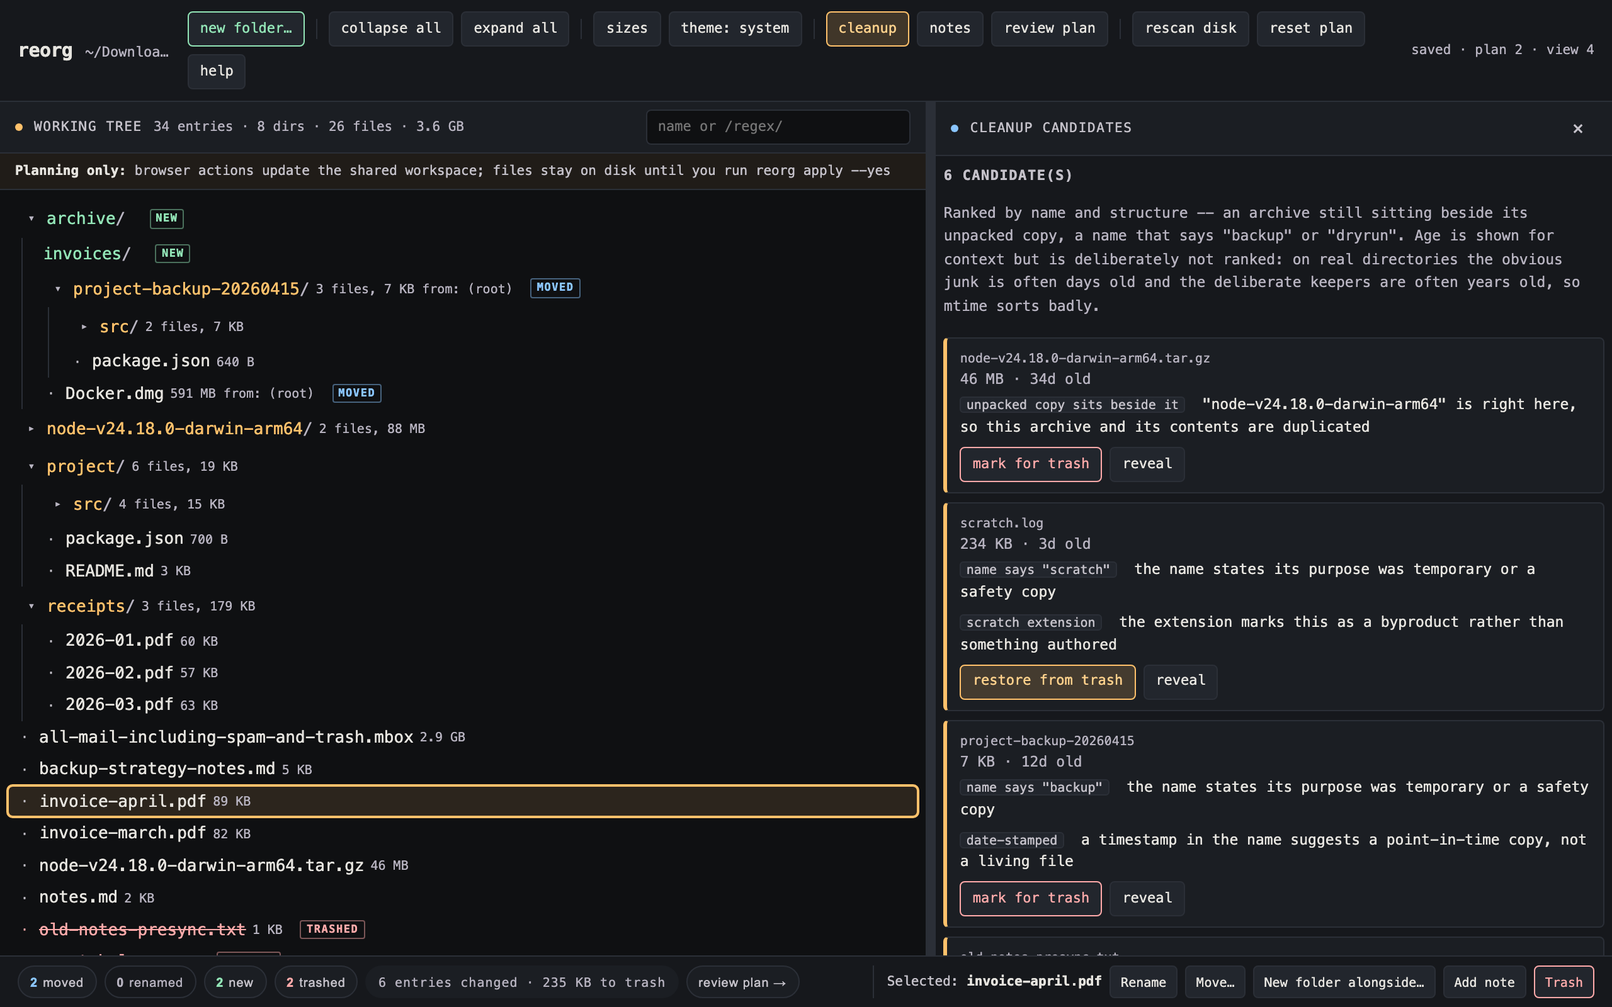
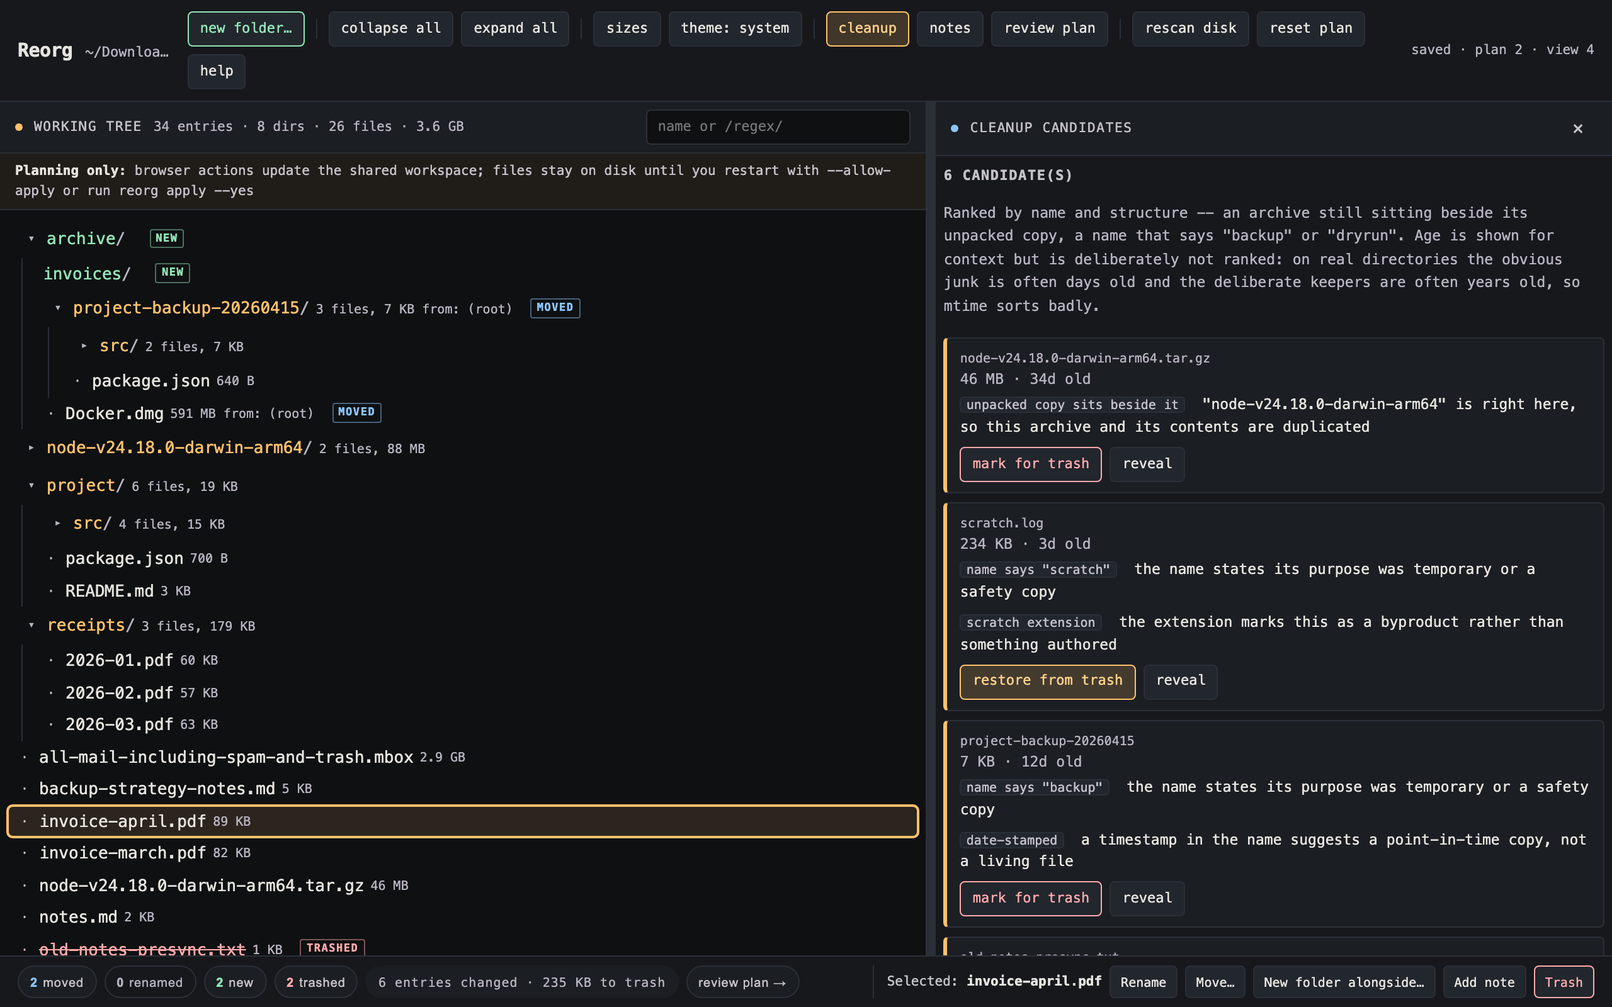
feat(skill): enable AI-assisted Reorg collaboration
- Guide agents through revisioned shared state, semantic mutations, and explicit apply boundaries
- Support Codex and Claude Code discovery with a zero-install npx fallback
- Package Claude marketplace distribution and document global installation
- Present Reorg as a complete manual planner with optional live agent collaboration

Changed region(s): [[0.0, 0.1875, 0.5938, 0.9688], [0.4688, 0.1562, 0.5625, 0.1875]]

diff --git a/web/app.js b/web/app.js
@@ -1236,7 +1236,7 @@ function renderScopeBanner() {
     detail = 'browser actions update the shared workspace; files move only after Review, Apply, and confirmation';
   } else {
     lead.textContent = 'Planning only: ';
-    detail = 'browser actions update the shared workspace; files stay on disk until you run reorg apply --yes';
+    detail = 'browser actions update the shared workspace; files stay on disk until you restart with --allow-apply or run reorg apply --yes';
   }
   banner.append(lead, document.createTextNode(detail));
   banner.classList.toggle('bad', !!store.scan.truncated);
@@ -1261,7 +1261,7 @@ async function boot() {
       el(
         'p',
         'problem',
-        `Could not reach the reorg server: ${e.message}\n\nOpen the URL printed by the reorg command -- it carries the access token this page needs.`
+        `Could not reach the Reorg server: ${e.message}\n\nOpen the URL printed by the reorg command -- it carries the access token this page needs.`
       )
     );
     return;
@@ -1269,7 +1269,7 @@ async function boot() {
 
   store.init(data);
   $('#rootLabel').textContent = data.scan.root;
-  document.title = `reorg \u00b7 ${data.scan.root.split('/').filter(Boolean).pop() || '/'}`;
+  document.title = `Reorg \u00b7 ${data.scan.root.split('/').filter(Boolean).pop() || '/'}`;
 
   const c = data.scan.counts;
   $('#treeHint').textContent =

diff --git a/src/summarize.js b/src/summarize.js
@@ -271,9 +271,9 @@ export async function emitPrompts({ root, dataDir = null, paths, force = false }
   for (const e of entries) stub[e.path] = '';
 
   const doc = [
-    '# Summarize these files for reorg',
+    '# Summarize these files for Reorg',
     '',
-    'A one-line summary per file, so the reorg planner can show what each file',
+    'A one-line summary per file, so the Reorg planner can show what each file',
     'actually is while its owner decides where it belongs.',
     '',
     '## What to do',
@@ -281,7 +281,7 @@ export async function emitPrompts({ root, dataDir = null, paths, force = false }
     `1. Read each path listed below (they are relative to \`${root}\`).`,
     `2. Fill in every empty string in \`${OUT_FILE}\` (same directory as this file).`,
     '3. Keep the keys exactly as they are -- they are node ids the planner matches on.',
-    '4. Reload the reorg page; summaries appear inline in the tree.',
+    '4. Reload the Reorg page; summaries appear inline in the tree.',
     '',
     '## Rules for each summary',
     '',

diff --git a/web/index.html b/web/index.html
@@ -3,7 +3,7 @@
 <head>
 <meta charset="utf-8">
 <meta name="viewport" content="width=device-width, initial-scale=1">
-<title>reorg</title>
+<title>Reorg</title>
 <link rel="icon" href="/favicon.svg" type="image/svg+xml">
 <link rel="stylesheet" href="/app.css">
 </head>
@@ -12,10 +12,10 @@
 <a class="skip-link" href="#tree">Skip to directory tree</a>
 
 <header class="topbar">
-  <h1 class="brand"><span>reorg</span><span class="brand-sub" id="rootLabel"></span></h1>
+  <h1 class="brand"><span>Reorg</span><span class="brand-sub" id="rootLabel"></span></h1>
   <nav class="toolbar" id="toolbar" aria-label="Planner actions"></nav>
   <div class="spacer"></div>
-  <div class="savestate" id="saveState" role="status" aria-live="polite" aria-atomic="true" title="Your plan and view autosave to the shared reorg workspace">&hellip;</div>
+  <div class="savestate" id="saveState" role="status" aria-live="polite" aria-atomic="true" title="Your plan and view autosave to the shared Reorg workspace">&hellip;</div>
 </header>
 
 <main class="stage" id="stage">

diff --git a/src/apply.js b/src/apply.js
@@ -146,7 +146,7 @@ function shellQuote(s) {
 export function buildUndoScript(ops, stamp, opts = {}) {
   const lines = [
     '#!/bin/bash',
-    '# Undo script generated by reorg. Run from the directory that was reorganized.',
+    '# Undo script generated by Reorg; run from the directory that was reorganized',
     '# Each step is guarded, so this is safe to run after a partial apply: steps',
     '# whose source is missing are skipped rather than failing the whole script.',
     `# Generated for apply run ${stamp}.`,
@@ -156,7 +156,7 @@ export function buildUndoScript(ops, stamp, opts = {}) {
     // The script lives at <root>/.reorg/undo-<stamp>.sh, so one level up from its
     // own directory is the reorganized root. Paths below are relative to that.
     'cd "$(dirname "$0")/.." || exit 1',
-    `printf 'Undoing reorg run %s in %s\\n' ${shellQuote(stamp)} "$PWD"`,
+    `printf 'Undoing Reorg run %s in %s\\n' ${shellQuote(stamp)} "$PWD"`,
     '',
     'moved=0; skipped=0',
     '',

diff --git a/test/static.test.js b/test/static.test.js
@@ -40,7 +40,7 @@ test('--help includes the package version in its header', () => {
   assert.equal(result.status, 0, result.stderr);
   assert.equal(
     result.stdout.split(/\r?\n/, 1)[0],
-    `reorg ${PACKAGE_VERSION} -- plan a directory reorganization, then apply it safely.`
+    `reorg ${PACKAGE_VERSION} -- plan alone or collaborate with an AI agent, then apply safely.`
   );
   assert.match(result.stdout, /--allow-apply/);
 });

diff --git a/web/lib/api.js b/web/lib/api.js
@@ -27,7 +27,7 @@ async function request(method, path, body) {
       body: body === undefined ? undefined : JSON.stringify(body),
     });
   } catch (e) {
-    throw new Error(`the reorg server is not responding (${e.message}). Is it still running?`);
+    throw new Error(`the Reorg server is not responding (${e.message}). Is it still running?`);
   }
 
   const text = await res.text();

diff --git a/src/state.js b/src/state.js
@@ -131,7 +131,7 @@ export function emptyView(legacyUi = {}) {
 function selfIgnore(dir) {
   const f = join(dir, '.gitignore');
   if (existsSync(f)) return;
-  writeFileSync(f, '# reorg working state -- not source. Ignored wholesale.\n*\n');
+  writeFileSync(f, '# Reorg working state -- not source; ignored wholesale\n*\n');
 }
 
 export function ensureStateDir(root, dataDir = null) {

diff --git a/README.md b/README.md
@@ -1,12 +1,14 @@
-# reorg
+# Reorg
 
-Reorganize a messy directory by selecting or dragging entries into shape, then apply the plan with one command. Before moving anything, reorg writes an undo script.
+Reorganize a directory yourself in the browser, or collaborate with an AI agent in real time on the same plan. Reorg validates every operation and leaves the filesystem untouched until you explicitly apply; when an agent joins, the scanned tree, proposed changes, and UI state become shared context that you can see and steer.
 
 ```
 npx reorg-cli@latest ~/Downloads
 ```
 
-That scans the directory, opens a planner in your browser, and prints a URL. Select an entry to see its labeled actions, create folders at any level, move with or without drag and drop, rename things, and mark junk for trash. No planned rename, move, folder, or trash action touches the entries on disk until you say so.
+That scans the directory, opens the planner in your browser, and prints a URL. You can select an entry to see its labeled actions, create folders at any level, move with or without drag and drop, rename things, and mark junk for trash. The browser and CLI are complete on their own; no AI agent is required. With the [Agent Skill](#collaborate-with-an-ai-agent) installed, you can instead ask your agent to propose or make those changes while you watch, review, and redirect the same plan. No planned rename, move, folder, or trash action touches the entries on disk until you say so.
+
+> Help me organize `~/Downloads` with Reorg. Start by showing me what you would change, then keep the browser in sync as we work through it together.
 
 ![The planner mid-edit: a new folder, two moves, two entries marked for trash](docs/planner.png)
 
@@ -18,7 +20,9 @@ No runtime dependencies, no build step, no config file. One Node script and a pa
 
 ## Why
 
-Cleaning up a directory has two distinct parts: deciding what its shape should be, and safely realizing that plan on disk. reorg keeps them separate. You arrange the whole tree in a planner where every change is reversible with a keystroke. When the shape looks right, reorg compiles the plan into ordered filesystem operations for applying and undoing the changes, with collisions caught before anything moves.
+Cleaning up a directory has two distinct parts: deciding what its shape should be, and safely realizing that plan on disk. An AI agent can accelerate the first part only when you and the agent can see the same state, build on each other's decisions, and catch stale or conflicting intent. Reorg provides that shared, revisioned planning surface, then compiles the agreed plan into ordered filesystem operations for applying and undoing the changes, with collisions caught before anything moves.
+
+This makes the agent a collaborator rather than a black-box file mover. It can understand contents, propose structure, update the plan, and focus the browser on what it is discussing; Reorg remains responsible for state, validation, attribution, dry runs, application, and recovery.
 
 It is useful for a `~/Downloads` that got away from you, a repo whose layout no longer matches how you think about it, or a scratch directory you have been meaning to triage for a year.
 
@@ -111,9 +115,38 @@ Sibling order is *derived* (folders first, then natural sort), never stored. Dra
 
 The planner targets WCAG 2.2 AA overall and adds AAA enhancements where they improve the experience without changing the product's compact structure. Normal and large text meet the AAA enhanced contrast thresholds in both themes, while controls meet the AA minimum target size rather than the larger AAA target. The tree, menus, dialogs, panels, status messages, focus movement, narrow single-pane layout, and reduced-motion behavior are all covered by browser tests.
 
-## Shared workspace and AI agents
+## Collaborate with an AI agent
 
-The browser, CLI, and an AI agent use one authoritative workspace. The browser submits semantic commands through the token-gated server API. An agent submits the same command vocabulary through `reorg mutate` and `reorg view`; it should never edit a state file directly. Both paths reach the same revision-checked command layer, while filesystem paths remain unchanged until an explicitly authorized apply runs.
+Reorg turns directory organization into a shared session. The browser and agent use one authoritative workspace, and the browser watches its revisions so each collaborator sees the other's plan and view changes in real time. Shared filters, collapsed folders, selection, and side-panel context let the agent answer "what is Reorg displaying?" and focus the interface on the entry it is discussing.
+
+The browser submits semantic commands through the token-gated server API. An agent submits the same command vocabulary through `reorg mutate` and `reorg view`; it never edits a state file directly. Both paths reach the same revision-checked command layer, stale intent becomes a visible conflict instead of an overwrite, and source paths remain unchanged until an explicitly authorized apply runs.
+
+The source checkout includes one canonical [Reorg Agent Skill](.agents/skills/reorg/SKILL.md). Codex discovers it from `.agents/skills`, while Claude Code discovers the same folder through `.claude/skills`. Invoke `$reorg` in Codex or `/reorg` in Claude Code to inspect or organize a directory through the shared workspace.
+
+The Skill is instruction-only. It selects the first compatible CLI by checking `reorg schema --json`: the source-checkout command, an installed `reorg`, then `npx --yes reorg-cli@latest`. The `npx` fallback may populate npm's cache but does not install a global command. Every deterministic state transition remains in Reorg's revisioned CLI.
+
+To install the Skill globally without cloning the repository, download its single canonical file into the personal Skill directory for your agent:
+
+```bash
+REORG_SKILL_URL="https://raw.githubusercontent.com/j-256/reorg/main/.agents/skills/reorg/SKILL.md"
+
+# Codex
+mkdir -p "$HOME/.agents/skills/reorg"
+curl -fsSL "$REORG_SKILL_URL" -o "$HOME/.agents/skills/reorg/SKILL.md"
+
+# Claude Code
+mkdir -p "$HOME/.claude/skills/reorg"
+curl -fsSL "$REORG_SKILL_URL" -o "$HOME/.claude/skills/reorg/SKILL.md"
+```
+
+Claude Code users can instead install the Skill as a user-scoped plugin, which gives it the namespaced `/reorg:reorg` command and marketplace updates:
+
+```bash
+claude plugin marketplace add j-256/reorg
+claude plugin install reorg@reorg --scope user
+```
+
+Use either the direct Claude Code installation or the plugin installation so Claude does not load the same workflow twice. Installing `reorg-cli` globally remains useful for the bare `reorg` command and avoids the `npx` startup path, but the Skill does not require it.
 
 The workspace contains related state with different jobs:
 
@@ -125,7 +158,7 @@ The workspace contains related state with different jobs:
 | `view.json` | the independently revisioned filters, collapsed folders, selection, theme, and side panel |
 | `transactions.jsonl` | append-only attribution and command history for plan changes |
 
-`reorg inspect --json` answers both "what is planned?" and "what is reorg displaying?". Its projection explains whether each node is visible, filtered, hidden under a collapsed ancestor, dimmed by a change filter, muted as git-ignored, selected, or shown with size tinting. It also returns recent attributed plan transactions and the exact ordered operations the canonical plan resolves to.
+`reorg inspect --json` answers both "what is planned?" and "what is Reorg displaying?". Its projection explains whether each node is visible, filtered, hidden under a collapsed ancestor, dimmed by a change filter, muted as git-ignored, selected, or shown with size tinting. It also returns recent attributed plan transactions and the exact ordered operations the canonical plan resolves to.
 
 `reorg inspect` deliberately reads the frozen scan rather than silently replacing it with the live filesystem. Starting the browser also reuses an existing frozen scan unless explicit scan options request a new one. Use `reorg rescan --json` when a collaborator intentionally wants to refresh that shared baseline; a running browser adopts the new scan through the same workspace.
 
@@ -143,7 +176,7 @@ reorg mutate ~/Downloads --input - --json <<'JSON'
 {
   "expectedRevision": 4,
   "transactionId": "organize-writing-1",
-  "actor": "codex",
+  "actor": "my-agent",
   "commands": [
     { "type": "create-folder", "id": "new:writing", "parentId": ".", "name": "Writing" },
     { "type": "move", "id": "draft.md", "parentId": "new:writing" }
@@ -188,7 +221,7 @@ reorg ~/Downloads -s
 reorg ~/Downloads -s -o downloads-plan.html
 ```
 
-Without `--output`, reorg writes a temporary HTML file and opens it. The page is self-contained: the tree, cleanup candidates, bounded file previews, styles, and browser code are all embedded, so it can be moved and opened directly with a `file://` URL. An explicit output path is never overwritten.
+Without `--output`, Reorg writes a temporary HTML file and opens it. The page is self-contained: the tree, cleanup candidates, bounded file previews, styles, and browser code are all embedded, so it can be moved and opened directly with a `file://` URL. An explicit output path is never overwritten.
 
 The tradeoff is that a static page cannot rescan the directory, autosave to the shared workspace, check the live filesystem, or apply anything. Edits stay in the page until **Review plan** exports `reorg-plan.json` by download or clipboard. Feed that export back to the CLI:
 
@@ -212,8 +245,8 @@ Applying a reorganization is the part that can ruin your afternoon, so the plan 
 - **Drift aborts the whole batch.** Every source path is checked to still exist and every destination to be free *before* the first move. If the tree changed since the scan, nothing is applied – not "nothing further", nothing at all.
 - **An undo script is written before execution starts**, so even a crash mid-run leaves a way back. It is guarded per step, so running it after a partial apply undoes only what happened.
 - **Collisions are caught at plan time**, not discovered at move time: two entries landing on one path, a folder marked for trash that still holds things you kept, a folder dragged inside itself.
-- **`git mv` for tracked files**, so history follows the move. (Git refuses this on a fully-untracked directory; reorg falls back to a plain rename there.)
-- **Rename cycles work.** Swapping two names is impossible with direct renames in any order, so reorg routes cycle members through a staging directory instead of failing.
+- **`git mv` for tracked files**, so history follows the move. (Git refuses this on a fully-untracked directory; Reorg falls back to a plain rename there.)
+- **Rename cycles work.** Swapping two names is impossible with direct renames in any order, so Reorg routes cycle members through a staging directory instead of failing.
 
 The semantic plan remains a diff against the frozen scan rather than a second copy of the tree. The default `.reorg/` workspace git-ignores itself on creation, so planning a repo's layout never dirties that repo.
 

diff --git a/.agents/skills/reorg/SKILL.md b/.agents/skills/reorg/SKILL.md
@@ -1,0 +1,78 @@
+---
+name: reorg
+description: Collaborate with a user on directory reorganization through Reorg's shared, revisioned CLI workspace. Use when a user asks an AI agent to organize files with Reorg, continue or revise a Reorg plan, explain what Reorg or its browser is displaying, coordinate in real time with another collaborator, manage portable Reorg state, dry-run or explicitly apply a plan, or undo an applied reorganization. Do not use for unrelated direct filesystem cleanup that is not using Reorg.
+---
+
+# Reorg
+
+Use Reorg's CLI as the only integration boundary. Let the model choose an organization, but let Reorg inspect, validate, persist, coordinate, apply, and undo it.
+
+## Establish the workspace
+
+1. Select the CLI by its contract, not by the command name alone. Try these available candidates in order: `node <repo-root>/bin/reorg` when working anywhere inside a Reorg source checkout, `reorg`, then `npx --yes reorg-cli@latest`. Run `<reorg> schema --json` for each candidate and accept the first one whose `format` is `reorg-collaboration-schema` and whose `version` is `1`. The `npx` fallback may populate npm's cache but does not install a global command. If no candidate provides the contract, stop and report the incompatibility instead of guessing. Keep the accepted executable prefix for the whole workflow.
+2. Resolve the source root and optional external data directory from the request. A bound external data directory can identify its source root, so do not require both. If neither is clear, ask for either the source root plus its external data directory when one is in use, or the already-bound data directory by itself. Ask before initializing a workspace. Preserve the same `--data-dir` in every command for that workspace.
+3. Read the accepted schema before relying on command shapes or safety behavior.
+4. Run `<reorg> inspect <root> --json [--data-dir <dir>]` before reasoning about state or making a change. Do not start the browser server merely to inspect.
+
+Never edit workspace files directly. Never treat the live filesystem or raw state files as an answer to what Reorg is displaying.
+
+## Interpret inspection
+
+- Treat `scan` as the frozen baseline shared by every collaborator
+- Treat stable node `id` values, not inferred filesystem paths, as mutation targets
+- Read `plan` and `transactions` to understand pending intent and attributed changes
+- Read `view` and `projection` to answer what the browser is displaying, including filters, collapsed ancestors, git-muted rows, dimming, selection, and side-panel context
+- Read `resolved.ops` and `resolved.problems` to understand the exact prospective filesystem operations and whether the plan is valid
+- Read source files only when their content helps decide the organization; do not infer Reorg state from those reads
+
+Do not silently replace the frozen baseline. Run `<reorg> rescan ... --json` only when the user asks to refresh it or agrees that live filesystem changes should become the new shared scan.
+
+## Change the plan
+
+For a direct request to plan or revise an organization, submit semantic commands rather than editing files. For an exploratory request, explain the recommendation before changing shared state.
+
+1. Build one atomic transaction from command types reported by `schema`.
+2. Set `expectedRevision` to the inspected plan revision.
+3. Give the transaction a unique `transactionId` and retain it until the outcome is known.
+4. Set `actor` to a short agent identifier such as `codex` or `claude`.
+5. Send JSON through `<reorg> mutate <root> --input - --json [--data-dir <dir>]`.
+6. Inspect again and verify the new revision, transaction record, resolved operations, and problems.
+
+Use a caller-supplied `new:` id when later commands in the same transaction need to refer to a folder being created. Group dependent creates, moves, renames, trash decisions, and notes into the same transaction when they represent one intent.
+
+Reusing the same transaction id with identical commands is safe. After an interrupted or ambiguous response, retry the identical transaction with the same id rather than inventing a new one.
+
+## Share browser context
+
+Use `<reorg> view <root> --focus <id> --json [--data-dir <dir>]` to reveal and select an entry for the browser. For broader presentation changes, inspect the current view revision and submit a revision-checked patch using the shape reported by `schema`.
+
+Changing the plan or view changes workspace state only. It does not move, rename, or delete source entries.
+
+## Handle conflicts
+
+- On `workspace-busy`, retry the identical request with the same transaction id after a short delay
+- On `revision-conflict`, inspect again, reconsider the intent against the new state, and reuse the id only if the commands remain identical
+- On `idempotency-conflict`, inspect the recorded transaction and choose a new id only for genuinely different commands
+- On `invalid-command`, correct the command before retrying
+- On `scan-conflict`, inspect the latest workspace and prepare the apply again
+
+Never overwrite another collaborator's revision or bypass a conflict by editing workspace JSON.
+
+## Move portable state
+
+Use the `state move` and `state rebind` commands reported by `schema`; do not relocate or rewrite workspace files manually. Stop any browser server first so its workspace lease cannot split the source of truth. Keep apply recovery beside the source root rather than treating it as portable planning data.
+
+## Apply or undo
+
+Keep planning as the default outcome.
+
+1. Run `<reorg> apply <root> [--data-dir <dir>]` without `--yes` to perform a dry run and surface drift or collisions.
+2. Run `<reorg> apply <root> --yes [--data-dir <dir>]` only when the user explicitly requests filesystem application.
+3. Use `<reorg> undo <root> [--data-dir <dir>]` only when the user explicitly requests undo.
+4. Inspect after apply or undo and report the refreshed shared state and recovery command.
+
+Never enact the plan with `mv`, `rm`, `cp`, `git mv`, direct editor operations, or raw state edits. Enable browser apply with `--allow-apply` only when the user explicitly asks for an apply-enabled browser session.
+
+## Report the result
+
+Summarize the organizational decisions, plan and view revisions, unresolved problems, and whether source files changed. Include the dry-run or undo command when it is the useful next step. Avoid dumping full inspection JSON unless the user asks for it.
